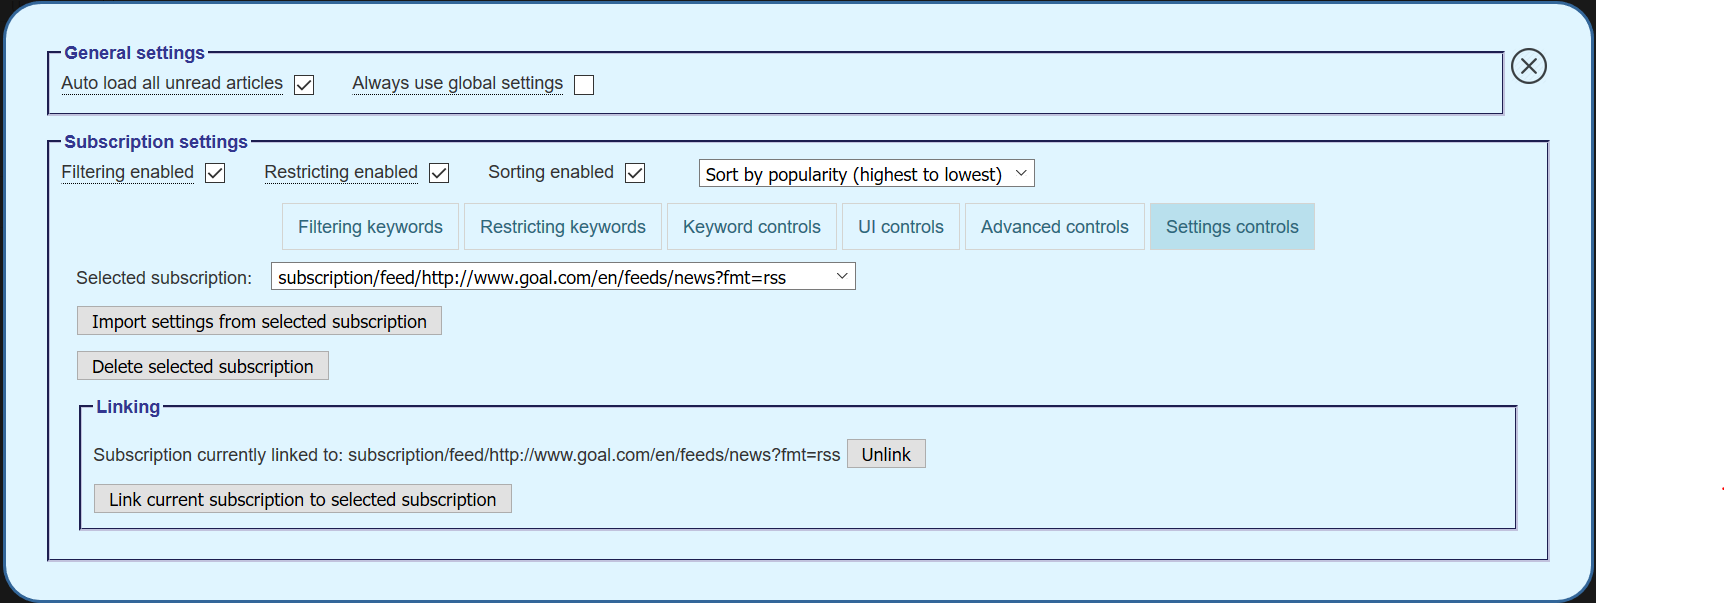
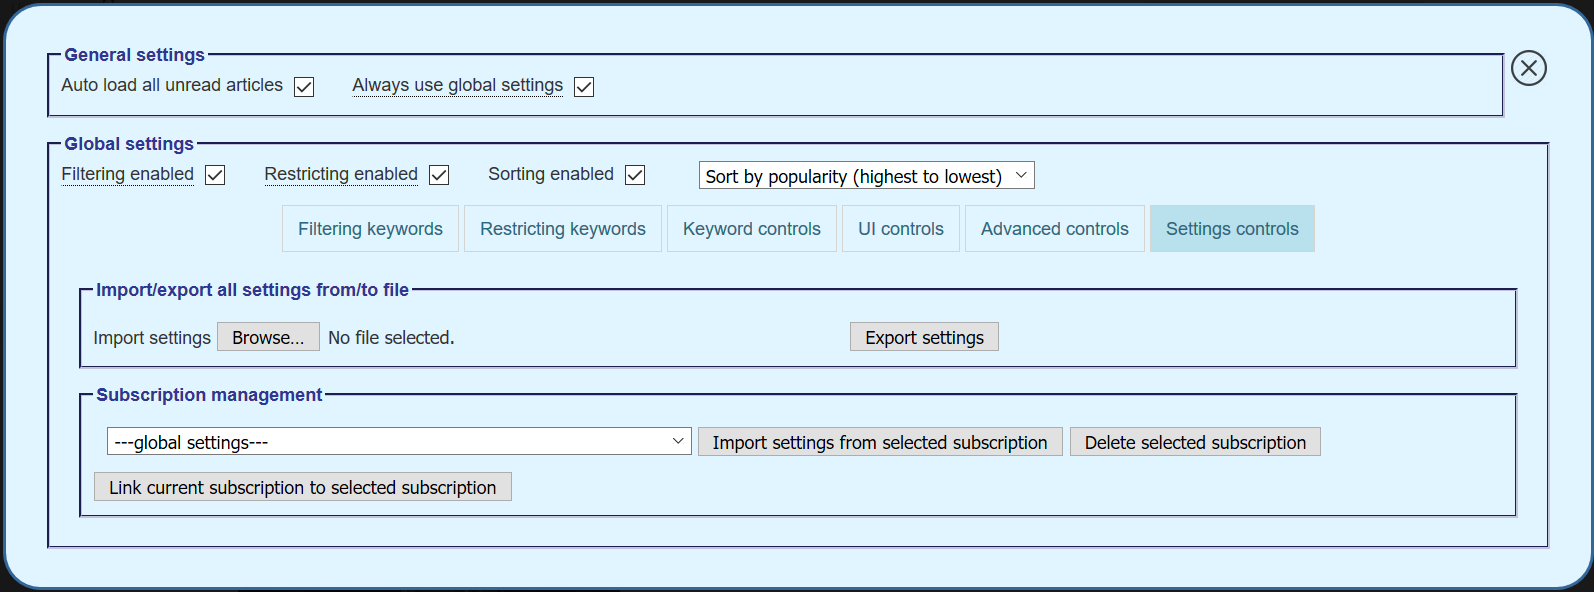
[2.7.0] Export/Import settings, Mark multiple articles as unread

Changed region(s): [[0.0, 0.0, 1.0, 1.0]]

diff --git a/script/Feedly_filtering_and_sorting.user.js b/script/Feedly_filtering_and_sorting.user.js
@@ -12,7 +12,7 @@
 // @require     https://greasyfork.org/scripts/19857-node-creation-observer/code/node-creation-observer.js?version=174436
 // @resource    node-creation-observer.js https://greasyfork.org/scripts/19857-node-creation-observer/code/node-creation-observer.js?version=174436
 // @include     *://feedly.com/*
-// @version     2.6.5
+// @version     2.7.0
 // @grant       GM_setValue
 // @grant       GM_getValue
 // @grant       GM_deleteValue
@@ -1163,7 +1163,7 @@ var KeywordMatcherFactory = (function () {
 }());
 
 var templates = {
-    "settingsHTML": "<div id='FFnS_settingsDivContainer'> <div id='FFnS_settingsDiv'> <img id='FFnS_CloseSettingsBtn' src='{{closeIconLink}}' class='pageAction requiresLogin'> <fieldset> <legend>General settings</legend> <div class='setting_group'> <span>Auto load all unread articles</span> <input id='FFnS_autoLoadAllArticles' type='checkbox'> </div> <div class='setting_group'> <span class='tooltip'>Always use global settings <span class='tooltiptext'>Use the same filtering and sorting settings for all subscriptions and categories. Uncheck to have specific settings for each subscription/category</span> </span> <input id='FFnS_globalSettingsEnabled' type='checkbox'> </div> </fieldset> <fieldset> <legend><span id='FFnS_settings_mode_title'></span></legend> <div class='setting_group'> <span class='tooltip'>Filtering enabled <span class='tooltiptext'>Hide the articles that contain at least one of the filtering keywords (not applied if empty)</span> </span> <input id='FFnS_FilteringEnabled' type='checkbox'> </div> <div class='setting_group'> <span class='tooltip'> Restricting enabled <span class='tooltiptext'>Show only articles that contain at least one of the restricting keywords (not applied if empty)</span> </span> <input id='FFnS_RestrictingEnabled' type='checkbox'> </div> <div class='setting_group'> <span>Sorting enabled</span> <input id='FFnS_SortingEnabled' type='checkbox' /> </div> {{SortingSelect}} <ul id='FFnS_tabs_menu'> <li class='current'> <a href='#FFnS_Tab_FilteredOut'>Filtering keywords</a> </li> <li> <a href='#FFnS_Tab_RestrictedOn'>Restricting keywords</a> </li> <li> <a href='#FFnS_Tab_KeywordControls'>Keyword controls</a> </li> </li> <li> <a href='#FFnS_Tab_UIControls'>UI controls</a> </li> <li> <a href='#FFnS_Tab_AdvancedControls'>Advanced controls</a> </li> <li> <a href='#FFnS_Tab_SettingsControls'>Settings controls</a> </li> </ul> <div id='FFnS_tabs_content'> {{FilteringList.Type.FilteredOut}} {{FilteringList.Type.RestrictedOn}} <div id='FFnS_Tab_KeywordControls' class='FFnS_Tab_Menu'> <p>The following settings are applied to the filtering and restricting</p> <fieldset> <legend>Matching area (domain)</legend> <div> <span>Search for keywords in the entry's: </span> {{DefaultKeywordMatchingArea}} <span> (Multiple values can be selected)</span> </div> <div> <span>Always use these matching areas</span> <input id='FFnS_AlwaysUseDefaultMatchingAreas' type='checkbox'> <span> (the area select boxes in the filtering and restring will be invisible when this option is checked)</span> </div> </fieldset> <fieldset> <legend>Matching method</legend> <span>The keywords are treated as : </span> <select id='FFnS_KeywordMatchingMethod' class='FFnS_input' size='3'> <option value='{{KeywordMatchingMethod.Simple}}' selected>Strings (simple match)</option> <option value='{{KeywordMatchingMethod.Word}}'>Words (whole word match)</option> <option value='{{KeywordMatchingMethod.RegExp}}'>Regular expressions (pattern match)</option> </select> </fieldset> </div> <div id='FFnS_Tab_UIControls' class='FFnS_Tab_Menu'> <div> <span>Add a button to open articles in a new window/tab and mark them as read</span> <input id='FFnS_OpenAndMarkAsRead' type='checkbox'> </div> <div> <span>Add buttons to mark articles above/below as</span> <select id='FFnS_MarkAsReadAboveBelowRead' class='FFnS_input'> <option value='true' selected>read</option> <option value='false'>unread</option> </select> <input id='FFnS_MarkAsReadAboveBelow' type='checkbox'> <span> (Also hide using the same buttons when marking as read</span> <input id='FFnS_HideWhenMarkAboveBelow' type='checkbox'> <span>)</span> </div> </div> <div id='FFnS_Tab_AdvancedControls' class='FFnS_Tab_Menu'> <fieldset> <legend>Recently received articles</legend> <div id='FFnS_MaxPeriod_Infos'> <span>Articles received (crawled) less than</span> <input id='FFnS_Hours_AdvancedControlsReceivedPeriod' class='FFnS_input' type='number' min='0' max='23'> <span>hours and</span> <input id='FFnS_Days_AdvancedControlsReceivedPeriod' class='FFnS_input' type='number' min='0'> <span>days</span> <span>ago should be:</span> </div> <div class='setting_group'> <span>Kept unread</span> <input id='FFnS_KeepUnread_AdvancedControlsReceivedPeriod' type='checkbox'> </div> <div class='setting_group'> <span>Hidden</span> <input id='FFnS_Hide_AdvancedControlsReceivedPeriod' type='checkbox'> </div> <div class='setting_group'> <span>Visible if hot or popularity superior to:</span> <input id='FFnS_MinPopularity_AdvancedControlsReceivedPeriod' class='FFnS_input' type='number' min='0' step='100'> <input id='FFnS_ShowIfHot_AdvancedControlsReceivedPeriod' type='checkbox'> <span class='tooltip'>Marked as read if hot or popular <span class='tooltiptext'>Mark as read the articles made visible if hot or with popularity superior to the defined value</span> </span> <input id='FFnS_MarkAsReadVisible_AdvancedControlsReceivedPeriod' type='checkbox'> </div> </fieldset> <fieldset> <legend>Additional sorting levels (applied when two entries have equal sorting)</legend> <span id='FFnS_AdditionalSortingTypes'></span> <span id='FFnS_AddSortingType'> <img src='{{plusIconLink}}' class='FFnS_icon' /> </span> <span id='FFnS_EraseSortingTypes'> <img src='{{eraseIconLink}}' class='FFnS_icon' /> </span> </fieldset> <fieldset> <legend>Misc</legend> <div class='setting_group'> <span>Group hot articles & pin to top</span> <input id='FFnS_PinHotToTop' type='checkbox'> </div> <div class='setting_group'> <span>Hide articles after reading them</span> <input id='FFnS_HideAfterRead' type='checkbox'> <span class='tooltip'>Replace with gap <span class='tooltiptext tooltip-top'>Replace the hidden article with a gap with same dimensions. Useful when 'Auto-Mark As Read On Scroll' is enabled.</span> </span> <input id='FFnS_ReplaceHiddenWithGap' type='checkbox'> </div> </fieldset> </div> <div id='FFnS_Tab_SettingsControls' class='FFnS_Tab_Menu'> <fieldset> <legend>Import/export all settings from/to file</legend> <div class='setting_group'> <span>Import settings </span> <input id='FFnS_ImportSettings' type='file' /> </div> <button id='FFnS_ExportSettings'>Export settings</button> </fieldset> <fieldset> <legend>Subscription management</legend> <select id='FFnS_SettingsControls_SelectedSubscription' class='FFnS_input'> {{ImportMenu.SubscriptionOptions}} </select> <button id='FFnS_SettingsControls_ImportFromOtherSub'>Import settings from selected subscription</button> <button id='FFnS_SettingsControls_DeleteSub'>Delete selected subscription</button> <div id='FFnS_SettingsControls_LinkedSubContainer'> <span id='FFnS_SettingsControls_LinkedSub'></span> <button id='FFnS_SettingsControls_UnlinkFromSub'>Unlink</button> </div> <button id='FFnS_SettingsControls_LinkToSub'>Link current subscription to selected subscription</button> </fieldset> </div> </div> </fieldset> </div> </div>",
+    "settingsHTML": "<div id='FFnS_settingsDivContainer'> <div id='FFnS_settingsDiv'> <img id='FFnS_CloseSettingsBtn' src='{{closeIconLink}}' class='pageAction requiresLogin'> <fieldset> <legend>General settings</legend> <div class='setting_group'> <span>Auto load all unread articles</span> <input id='FFnS_autoLoadAllArticles' type='checkbox'> </div> <div class='setting_group'> <span class='tooltip'>Always use global settings <span class='tooltiptext'>Use the same filtering and sorting settings for all subscriptions and categories. Uncheck to have specific settings for each subscription/category</span> </span> <input id='FFnS_globalSettingsEnabled' type='checkbox'> </div> </fieldset> <fieldset> <legend><span id='FFnS_settings_mode_title'></span></legend> <div class='setting_group'> <span class='tooltip'>Filtering enabled <span class='tooltiptext'>Hide the articles that contain at least one of the filtering keywords (not applied if empty)</span> </span> <input id='FFnS_FilteringEnabled' type='checkbox'> </div> <div class='setting_group'> <span class='tooltip'> Restricting enabled <span class='tooltiptext'>Show only articles that contain at least one of the restricting keywords (not applied if empty)</span> </span> <input id='FFnS_RestrictingEnabled' type='checkbox'> </div> <div class='setting_group'> <span>Sorting enabled</span> <input id='FFnS_SortingEnabled' type='checkbox' /> </div> {{SortingSelect}} <ul id='FFnS_tabs_menu'> <li class='current'> <a href='#FFnS_Tab_FilteredOut'>Filtering keywords</a> </li> <li> <a href='#FFnS_Tab_RestrictedOn'>Restricting keywords</a> </li> <li> <a href='#FFnS_Tab_KeywordControls'>Keyword controls</a> </li> </li> <li> <a href='#FFnS_Tab_UIControls'>UI controls</a> </li> <li> <a href='#FFnS_Tab_AdvancedControls'>Advanced controls</a> </li> <li> <a href='#FFnS_Tab_SettingsControls'>Settings controls</a> </li> </ul> <div id='FFnS_tabs_content'> {{FilteringList.Type.FilteredOut}} {{FilteringList.Type.RestrictedOn}} <div id='FFnS_Tab_KeywordControls' class='FFnS_Tab_Menu'> <p>The following settings are applied to the filtering and restricting</p> <fieldset> <legend>Matching area (domain)</legend> <div> <span>Search for keywords in the entry's: </span> {{DefaultKeywordMatchingArea}} <span> (Multiple values can be selected)</span> </div> <div> <span>Always use these matching areas</span> <input id='FFnS_AlwaysUseDefaultMatchingAreas' type='checkbox'> <span> (the area select boxes in the filtering and restring will be invisible when this option is checked)</span> </div> </fieldset> <fieldset> <legend>Matching method</legend> <span>The keywords are treated as : </span> <select id='FFnS_KeywordMatchingMethod' class='FFnS_input' size='3'> <option value='{{KeywordMatchingMethod.Simple}}' selected>Strings (simple match)</option> <option value='{{KeywordMatchingMethod.Word}}'>Words (whole word match)</option> <option value='{{KeywordMatchingMethod.RegExp}}'>Regular expressions (pattern match)</option> </select> </fieldset> </div> <div id='FFnS_Tab_UIControls' class='FFnS_Tab_Menu'> <div> <span>Add a button to open articles in a new window/tab and mark them as read</span> <input id='FFnS_OpenAndMarkAsRead' type='checkbox'> </div> <div> <span>Add buttons to mark articles above/below as</span> <select id='FFnS_MarkAsReadAboveBelowRead' class='FFnS_input'> <option value='true' selected>read</option> <option value='false'>unread</option> </select> <input id='FFnS_MarkAsReadAboveBelow' type='checkbox'> <span> (Also hide using the same buttons when marking as read</span> <input id='FFnS_HideWhenMarkAboveBelow' type='checkbox'> <span>)</span> </div> </div> <div id='FFnS_Tab_AdvancedControls' class='FFnS_Tab_Menu'> <fieldset> <legend>Recently received articles</legend> <div id='FFnS_MaxPeriod_Infos'> <span>Articles received (crawled) less than</span> <input id='FFnS_Hours_AdvancedControlsReceivedPeriod' class='FFnS_input' type='number' min='0' max='23'> <span>hours and</span> <input id='FFnS_Days_AdvancedControlsReceivedPeriod' class='FFnS_input' type='number' min='0'> <span>days</span> <span>ago should be:</span> </div> <div class='setting_group'> <span class='tooltip'>Kept unread if unread <span class='tooltiptext'>Only the articles that were not marked as read (manually or on scroll) will be kept unread</span> </span> <input id='FFnS_KeepUnread_AdvancedControlsReceivedPeriod' type='checkbox'> </div> <div class='setting_group'> <span>Hidden</span> <input id='FFnS_Hide_AdvancedControlsReceivedPeriod' type='checkbox'> </div> <div class='setting_group'> <span>Visible if hot or popularity superior to:</span> <input id='FFnS_MinPopularity_AdvancedControlsReceivedPeriod' class='FFnS_input' type='number' min='0' step='100'> <input id='FFnS_ShowIfHot_AdvancedControlsReceivedPeriod' type='checkbox'> <span class='tooltip'>Marked as read if hot or popular <span class='tooltiptext'>Mark as read the articles made visible if hot or with popularity superior to the defined value</span> </span> <input id='FFnS_MarkAsReadVisible_AdvancedControlsReceivedPeriod' type='checkbox'> </div> </fieldset> <fieldset> <legend>Additional sorting levels (applied when two entries have equal sorting)</legend> <span id='FFnS_AdditionalSortingTypes'></span> <span id='FFnS_AddSortingType'> <img src='{{plusIconLink}}' class='FFnS_icon' /> </span> <span id='FFnS_EraseSortingTypes'> <img src='{{eraseIconLink}}' class='FFnS_icon' /> </span> </fieldset> <fieldset> <legend>Misc</legend> <div class='setting_group'> <span>Group hot articles & pin to top</span> <input id='FFnS_PinHotToTop' type='checkbox'> </div> <div class='setting_group'> <span>Hide articles after reading them</span> <input id='FFnS_HideAfterRead' type='checkbox'> <span class='tooltip'>Replace with gap <span class='tooltiptext tooltip-top'>Replace the hidden article with a gap with same dimensions.</span> </span> <input id='FFnS_ReplaceHiddenWithGap' type='checkbox'> </div> </fieldset> </div> <div id='FFnS_Tab_SettingsControls' class='FFnS_Tab_Menu'> <fieldset> <legend>Import/export all settings from/to file</legend> <div class='setting_group'> <span>Import settings </span> <input id='FFnS_ImportSettings' type='file' /> </div> <button id='FFnS_ExportSettings'>Export settings</button> </fieldset> <fieldset> <legend>Subscription management</legend> <select id='FFnS_SettingsControls_SelectedSubscription' class='FFnS_input'> {{ImportMenu.SubscriptionOptions}} </select> <button id='FFnS_SettingsControls_ImportFromOtherSub'>Import settings from selected subscription</button> <button id='FFnS_SettingsControls_DeleteSub'>Delete selected subscription</button> <div id='FFnS_SettingsControls_LinkedSubContainer'> <span id='FFnS_SettingsControls_LinkedSub'></span> <button id='FFnS_SettingsControls_UnlinkFromSub'>Unlink</button> </div> <button id='FFnS_SettingsControls_LinkToSub'>Link current subscription to selected subscription</button> </fieldset> </div> </div> </fieldset> </div> </div>",
     "filteringListHTML": "<div id='{{FilteringTypeTabId}}' class='FFnS_Tab_Menu'> {{FilteringKeywordMatchingArea}} <input id='{{inputId}}' class='FFnS_input' size='10' type='text'> <span id='{{plusBtnId}}'> <img src='{{plusIconLink}}' class='FFnS_icon' /> </span> <span id='{{filetringKeywordsId}}'></span> <span id='{{eraseBtnId}}'> <img src='{{eraseIconLink}}' class='FFnS_icon' /> </span> </div>",
     "filteringKeywordHTML": "<button id='{{keywordId}}' type='button' class='FFnS_keyword'>{{keyword}}</button>",
     "sortingSelectHTML": "<select id='{{Id}}' class='FFnS_input FFnS_sortingSelect'> <option value='{{PopularityDesc}}'>Sort by popularity (highest to lowest)</option> <option value='{{PopularityAsc}}'>Sort by popularity (lowest to highest)</option> <option value='{{TitleAsc}}'>Sort by title (a -&gt; z)</option> <option value='{{TitleDesc}}'>Sort by title (z -&gt; a)</option> <option value='{{ReceivedDateNewFirst}}'>Sort by received date (new first)</option> <option value='{{ReceivedDateOldFirst}}'>Sort by received date (old first)</option> <option value='{{PublishDateNewFirst}}'>Sort by publish date (new first)</option> <option value='{{PublishDateOldFirst}}'>Sort by publish date (old first)</option> <option value='{{SourceAsc}}'>Sort by source title (a -&gt; z)</option> <option value='{{SourceDesc}}'>Sort by source title (z -&gt; a)</option> </select>",

diff --git a/resources/settings.html b/resources/settings.html
@@ -116,7 +116,9 @@
 							<span>ago should be:</span>
 						</div>
 						<div class="setting_group">
-							<span>Kept unread</span>
+							<span class="tooltip">Kept unread if unread
+								<span class="tooltiptext">Only the articles that were not marked as read (manually or on scroll) will be kept unread</span>
+							</span>
 							<input id="FFnS_KeepUnread_AdvancedControlsReceivedPeriod" type="checkbox">
 						</div>
 						<div class="setting_group">
@@ -153,8 +155,7 @@
 							<span>Hide articles after reading them</span>
 							<input id="FFnS_HideAfterRead" type="checkbox">
 							<span class="tooltip">Replace with gap
-								<span class="tooltiptext tooltip-top">Replace the hidden article with a gap with same dimensions.
-									Useful when "Auto-Mark As Read On Scroll" is enabled.</span>
+								<span class="tooltiptext tooltip-top">Replace the hidden article with a gap with same dimensions.</span>
 							</span>
 							<input id="FFnS_ReplaceHiddenWithGap" type="checkbox">
 						</div>

diff --git a/README.md b/README.md
@@ -29,8 +29,9 @@ Additionally the `Latest` sort option must be enabled to use sorting functionali
 - Auto load all unread articles.
 - Advanced controls (keep recently published articles unread, ...).
 - Pin hot articles to top.
+- Import/export all settings from/to file.
 - Advanced settings management (Import from / link to an other subscription).
-- Tweak the page (Add a button to open an entry in a new tab and mark it as read, ...).
+- Tweak the page (Add buttons to open articles in a new tab, mark as read/unread, ...).
 
 Two settings modes are available: 
 - Global settings: same settings used for all subscriptions and categories.
@@ -42,8 +43,6 @@ Two settings modes are available:
 Presentation support:
 - The `Title Only`, `Magazine` and `Cards` views are fully supported.
 - The `Full Articles` view is not currently supported (does not use the same rendering engine as the other views).
-
-A page refresh is required when changing the presentation.
 
 ## [Changelog](https://github.com/soufianesakhi/feedly-filtering-and-sorting/releases)
 
